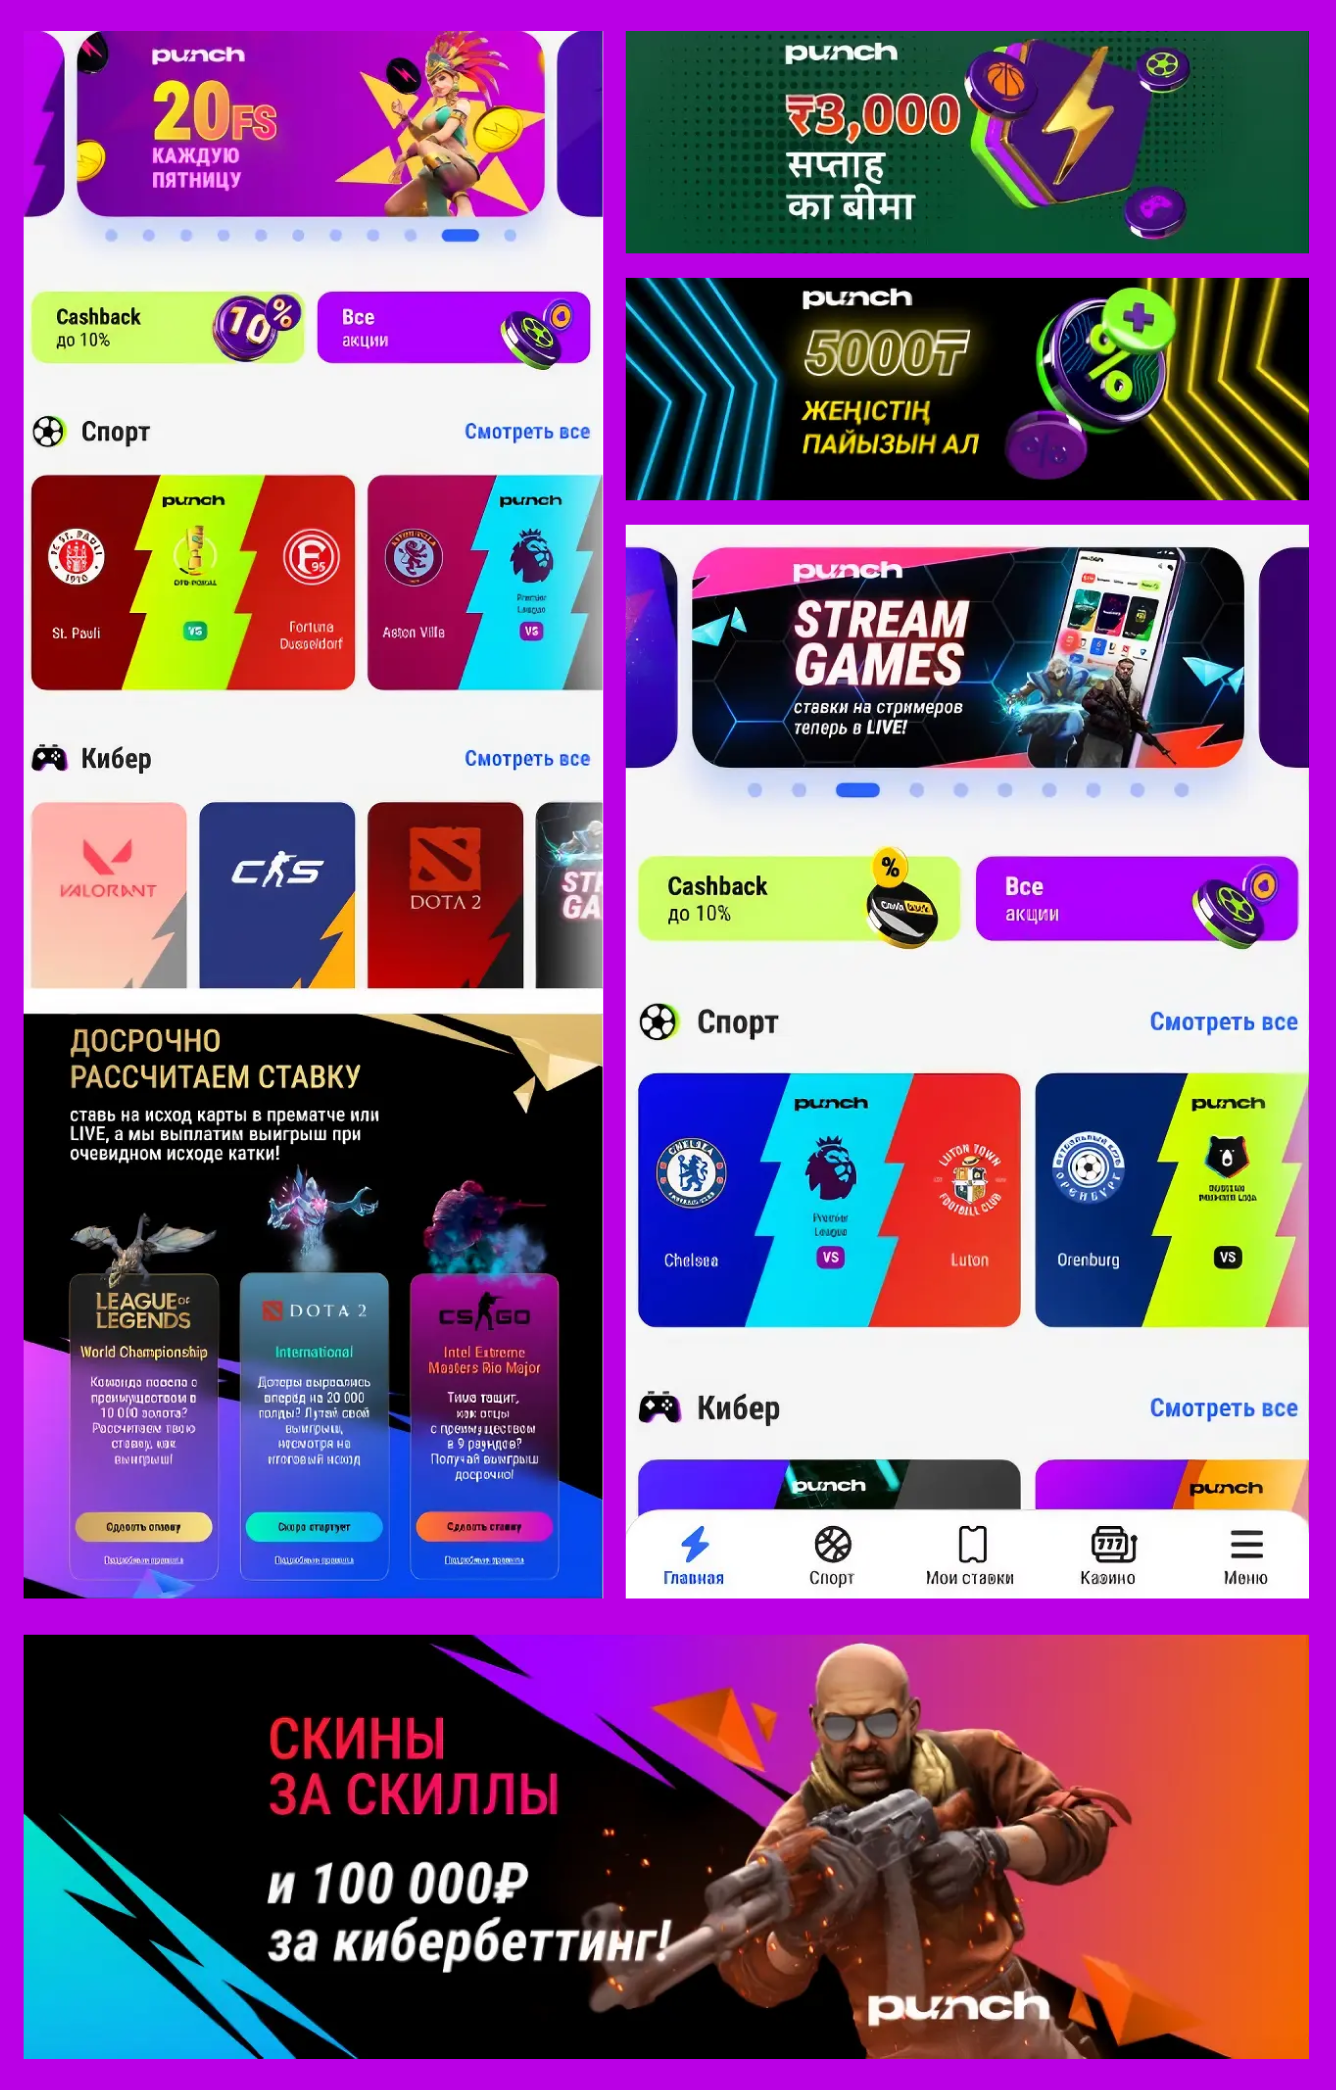
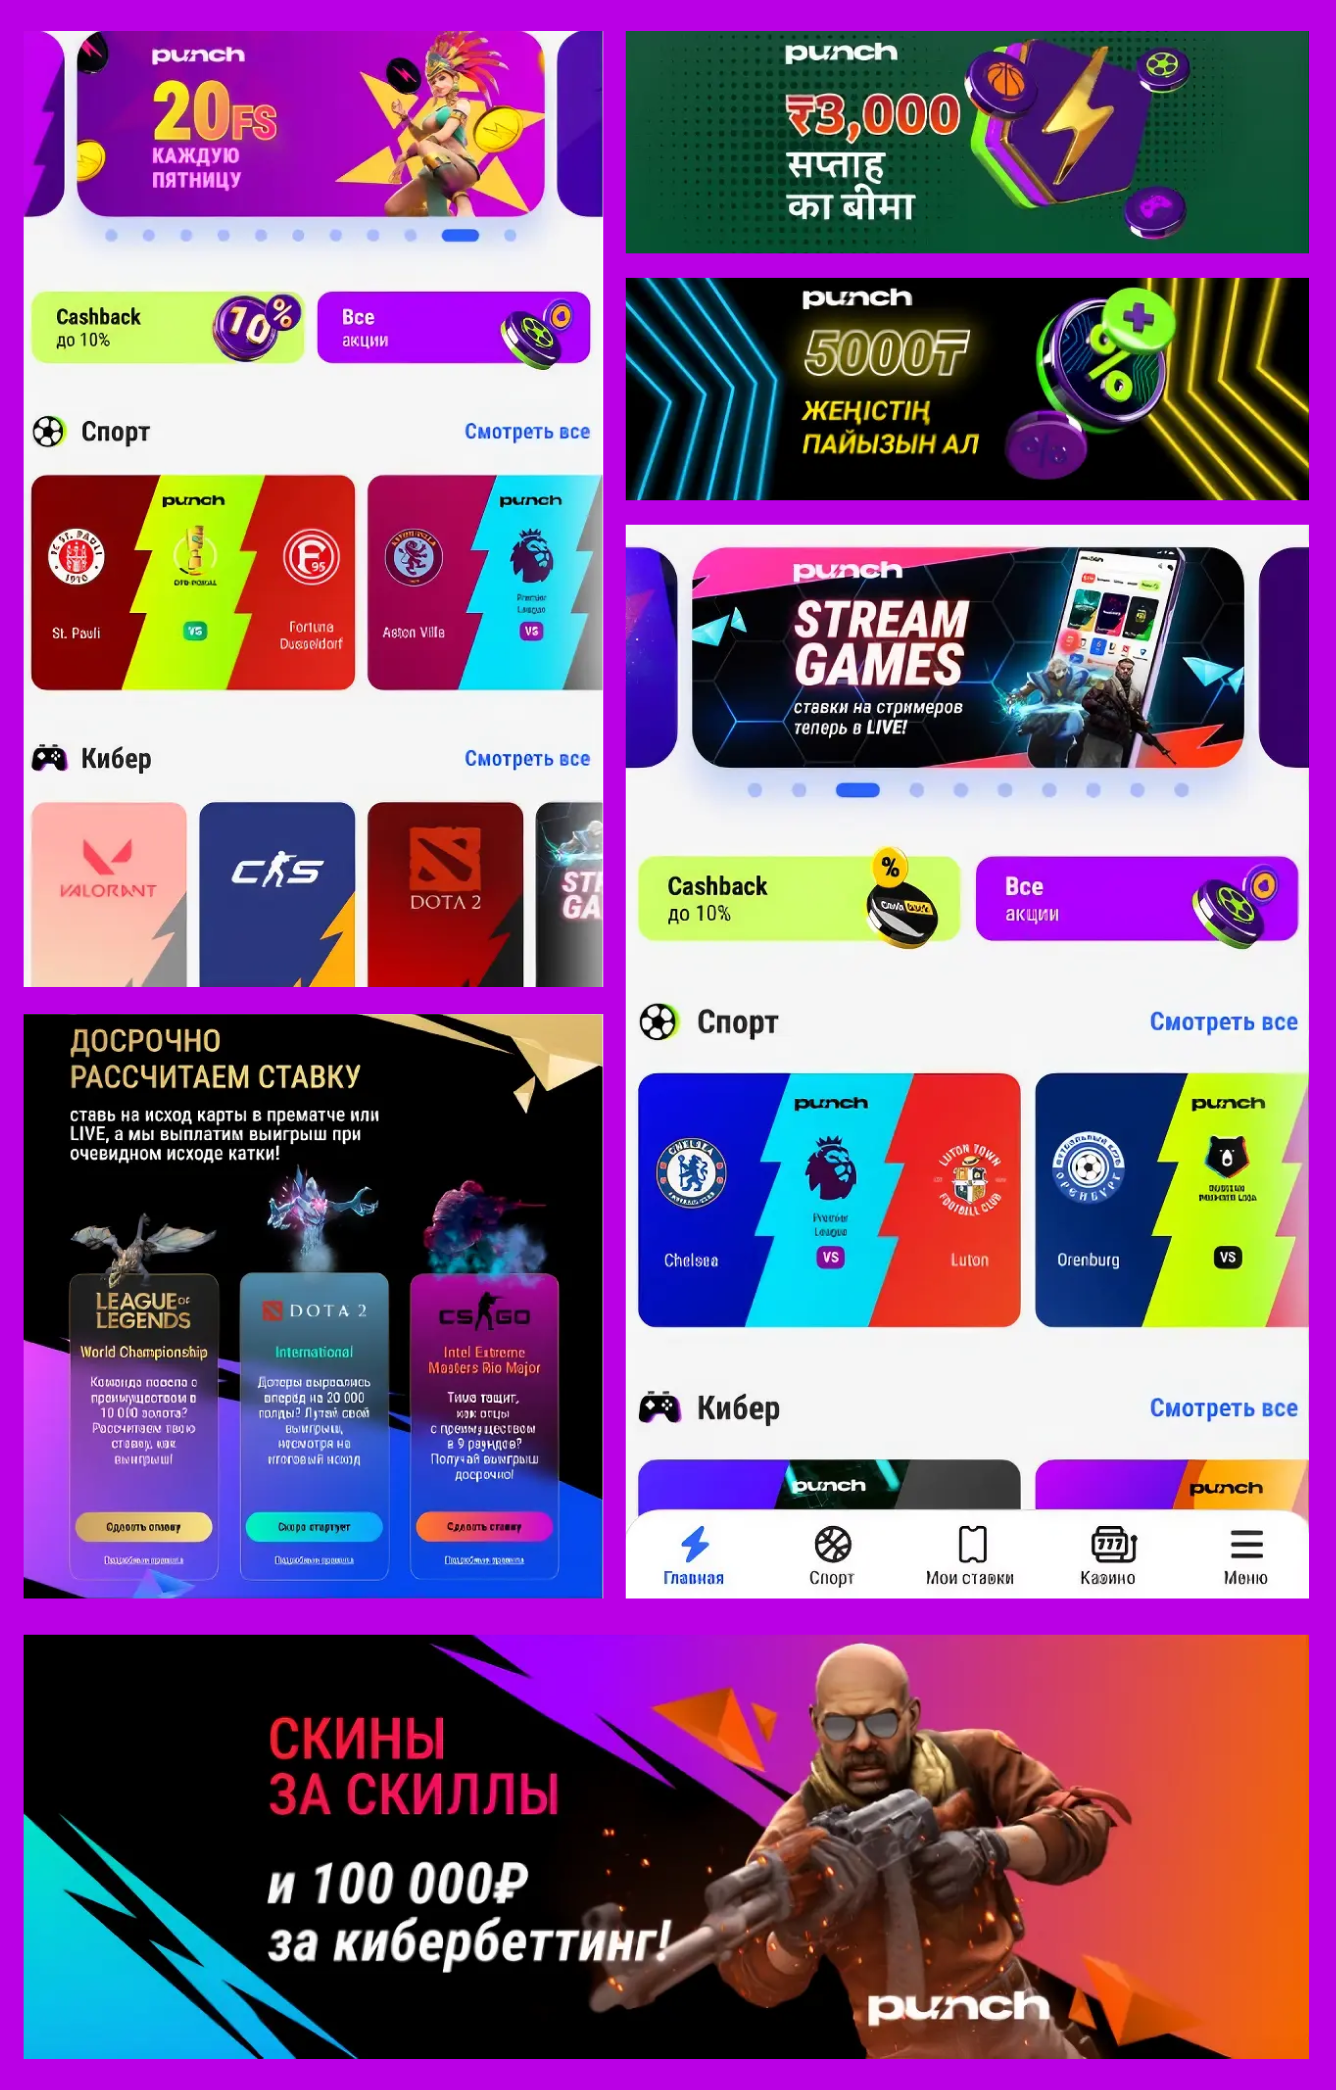
crasher&punch_redesign

Changed region(s): [[0.0, 0.4665, 0.4603, 0.4976]]

diff --git a/src/content/cases/crasher.md b/src/content/cases/crasher.md
@@ -1,9 +1,9 @@
 ---
 title: "CRASHER.MX"
 years: "Ребрендинг продукта"
-casetype: "#igaming #rebranding #web_design #web_product #strategy #CRM #SMM"
+casetype: "#igaming #brand_management #rebranding #web_design #web_product #strategy #SMM"
 order: 2
-heading: "Бренд-менеджмент выхода на Мексику"
+heading: "Бренд-менеджмент Мексиканского легального казино"
 bg: "#003380"
 slides:
   - src: "/cases/crasher/crasher0.webp"